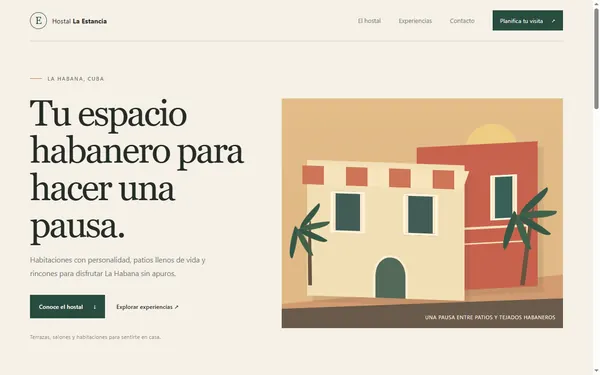
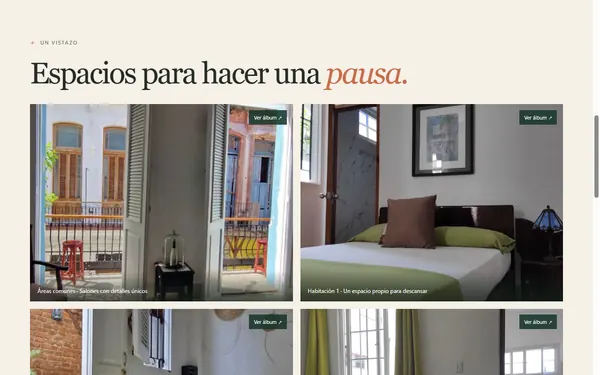
fix: actualizar peso total del sitio y ajustar tamaño de imagen en README.md

diff --git a/README.md b/README.md
@@ -6,7 +6,7 @@ Sitio web estático, ultra ligero y optimizado para la realidad de conectividad 
 
 ## ⚡ Métricas de Rendimiento y Peso
 
-- **Peso total del sitio (código + imágenes):** ~106 KB (límite máximo permitido: 500 KB).
+- **Peso total del sitio (código + imágenes):** ~114 KB (límite máximo permitido: 500 KB).
 - **Imágenes de galería:** WebP optimizado (menos de 150 KB cada una).
 - **Dependencias externas:** Ninguna (sin fuentes descargables, librerías ni frameworks); el tiempo real de carga depende del dispositivo, la red y el hosting.
 
@@ -22,7 +22,7 @@ Sitio web estático, ultra ligero y optimizado para la realidad de conectividad 
 ├── js/
 │   └── main.js         # Menú hamburguesa accesible y comportamiento coordinado de FAQ
 ├── img/
-│   ├── hostal-la-estancia.webp # Captura WebP del sitio Hostal La Estancia (~12 KB)
+│   ├── hostal-la-estancia.webp # Captura WebP del sitio Hostal La Estancia (~20 KB)
 │   ├── ramirox-market.webp     # Captura WebP de RamiroX Market (~28 KB)
 │   ├── demo-1.webp     # Mockup de muestra: Hostal Colonial Havana (8.2 KB)
 │   ├── demo-2.webp     # Mockup de muestra: Café & Bistro El Malecón (7.7 KB)
